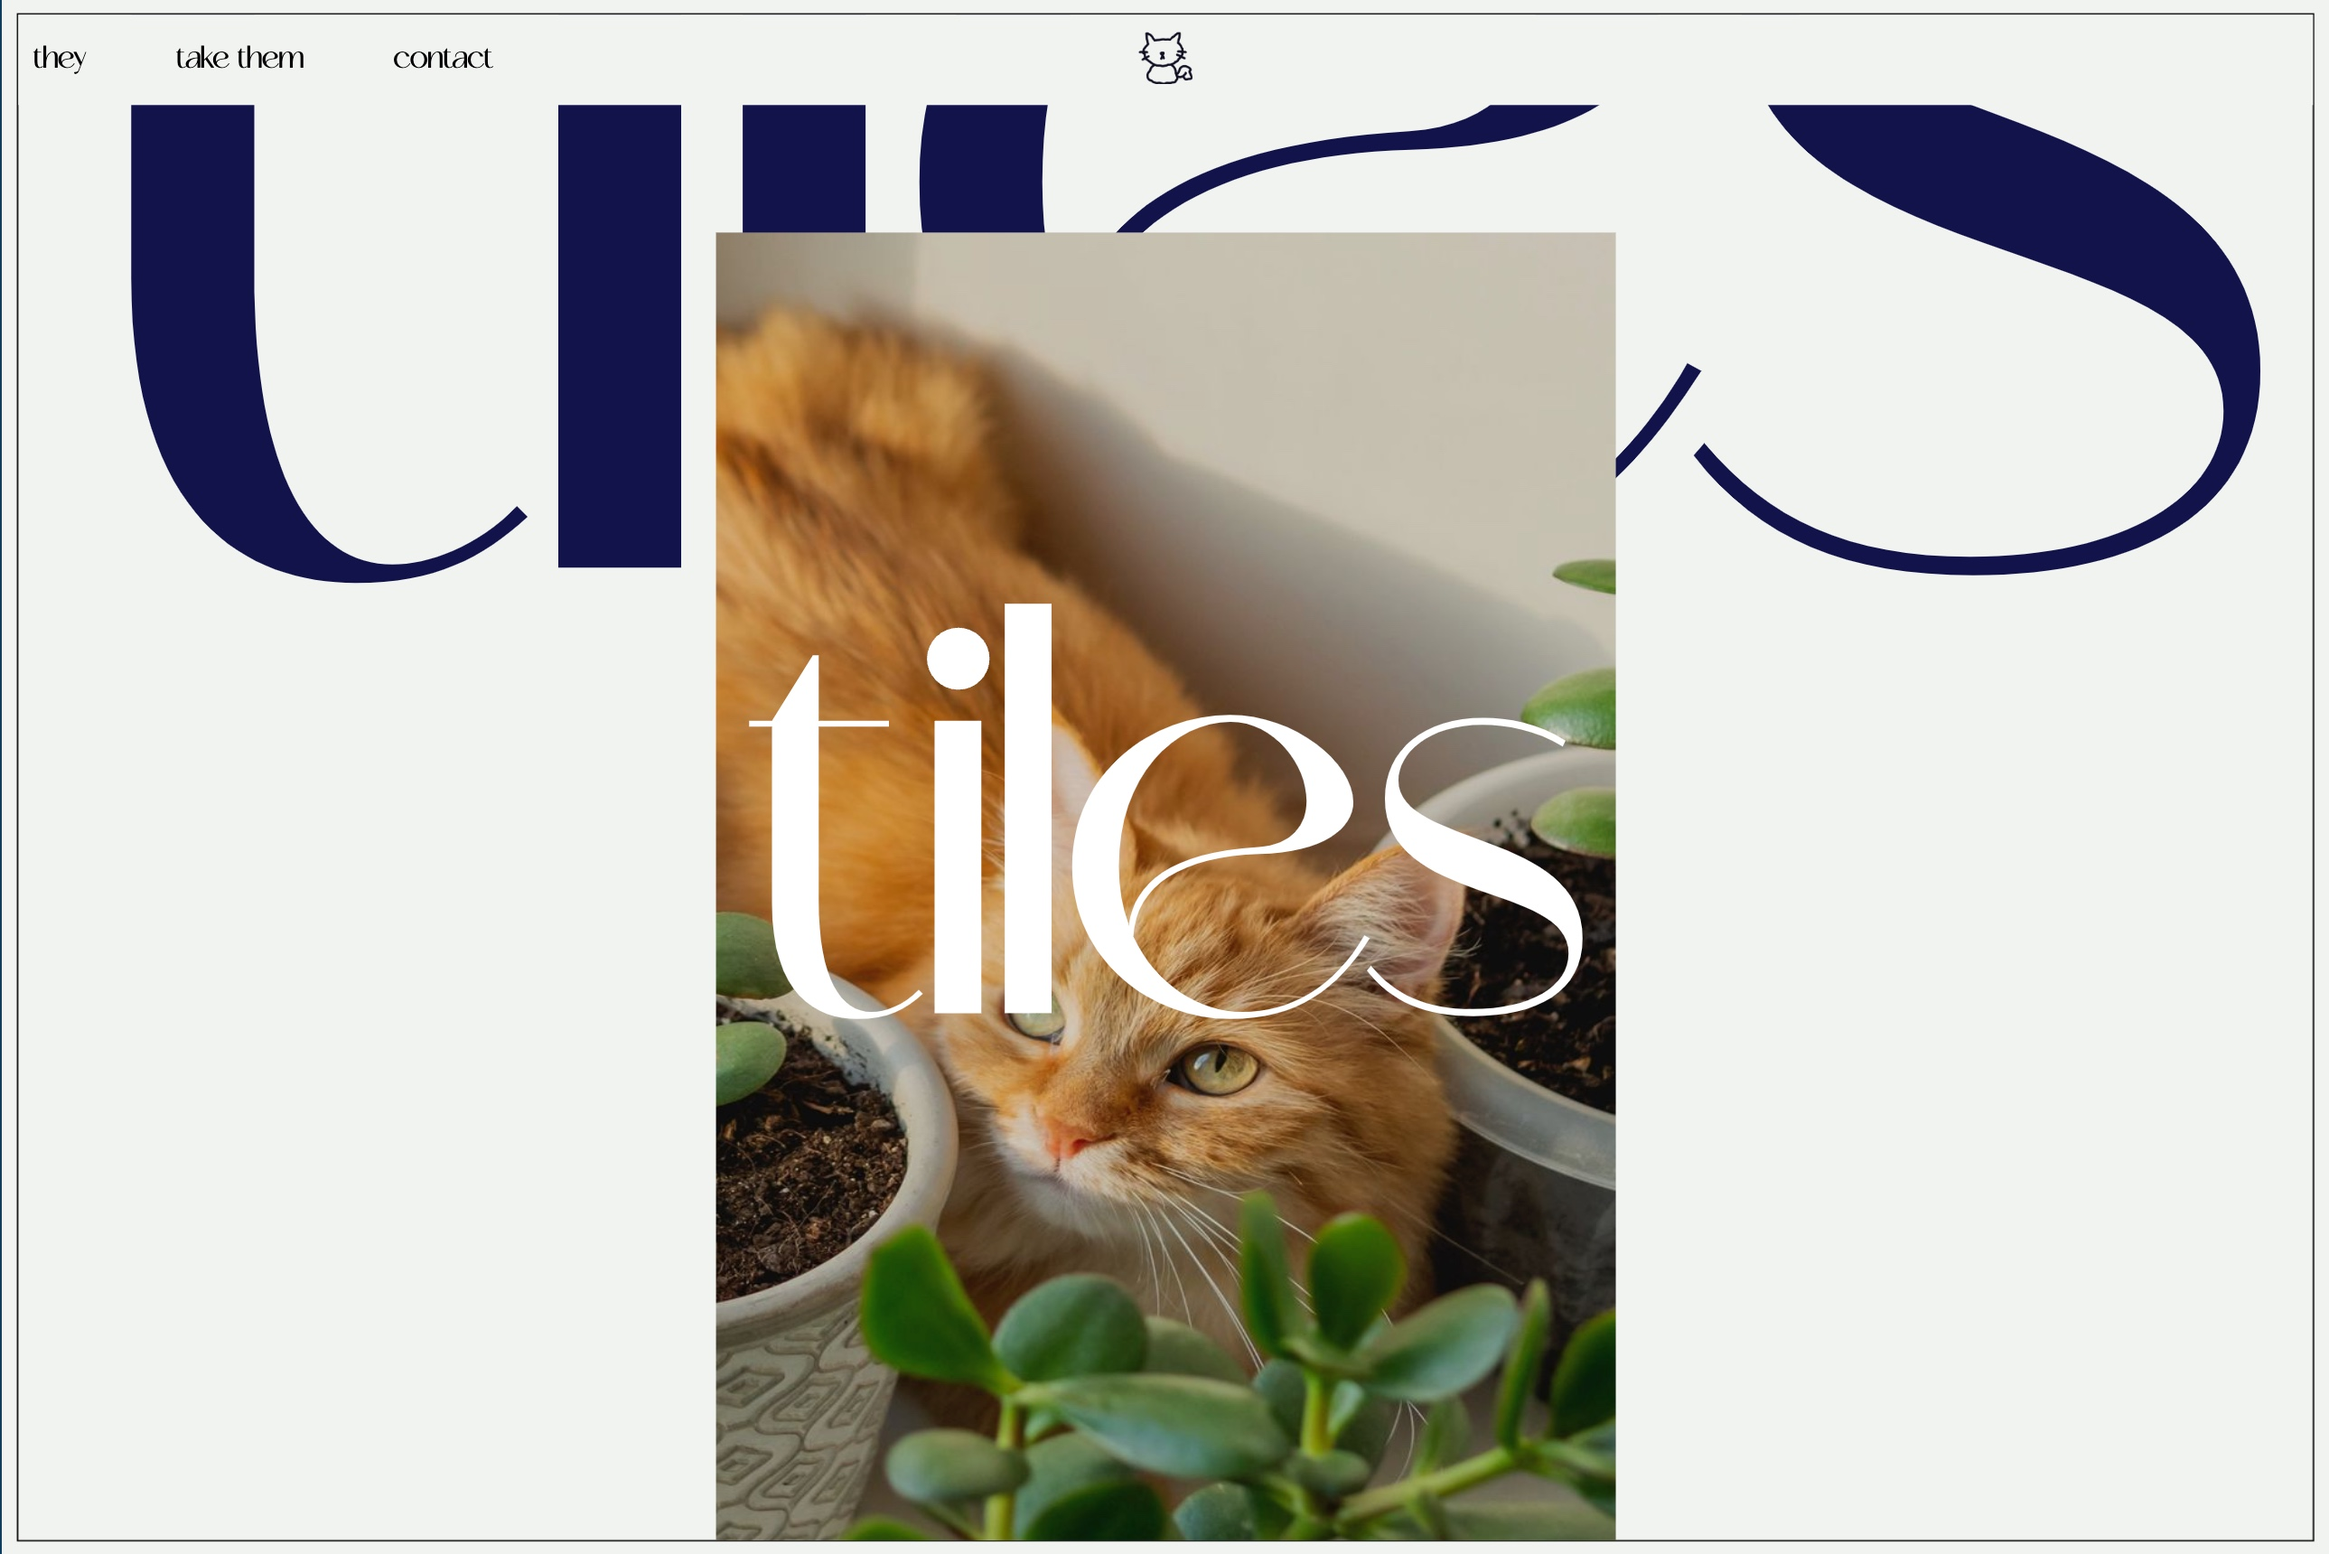
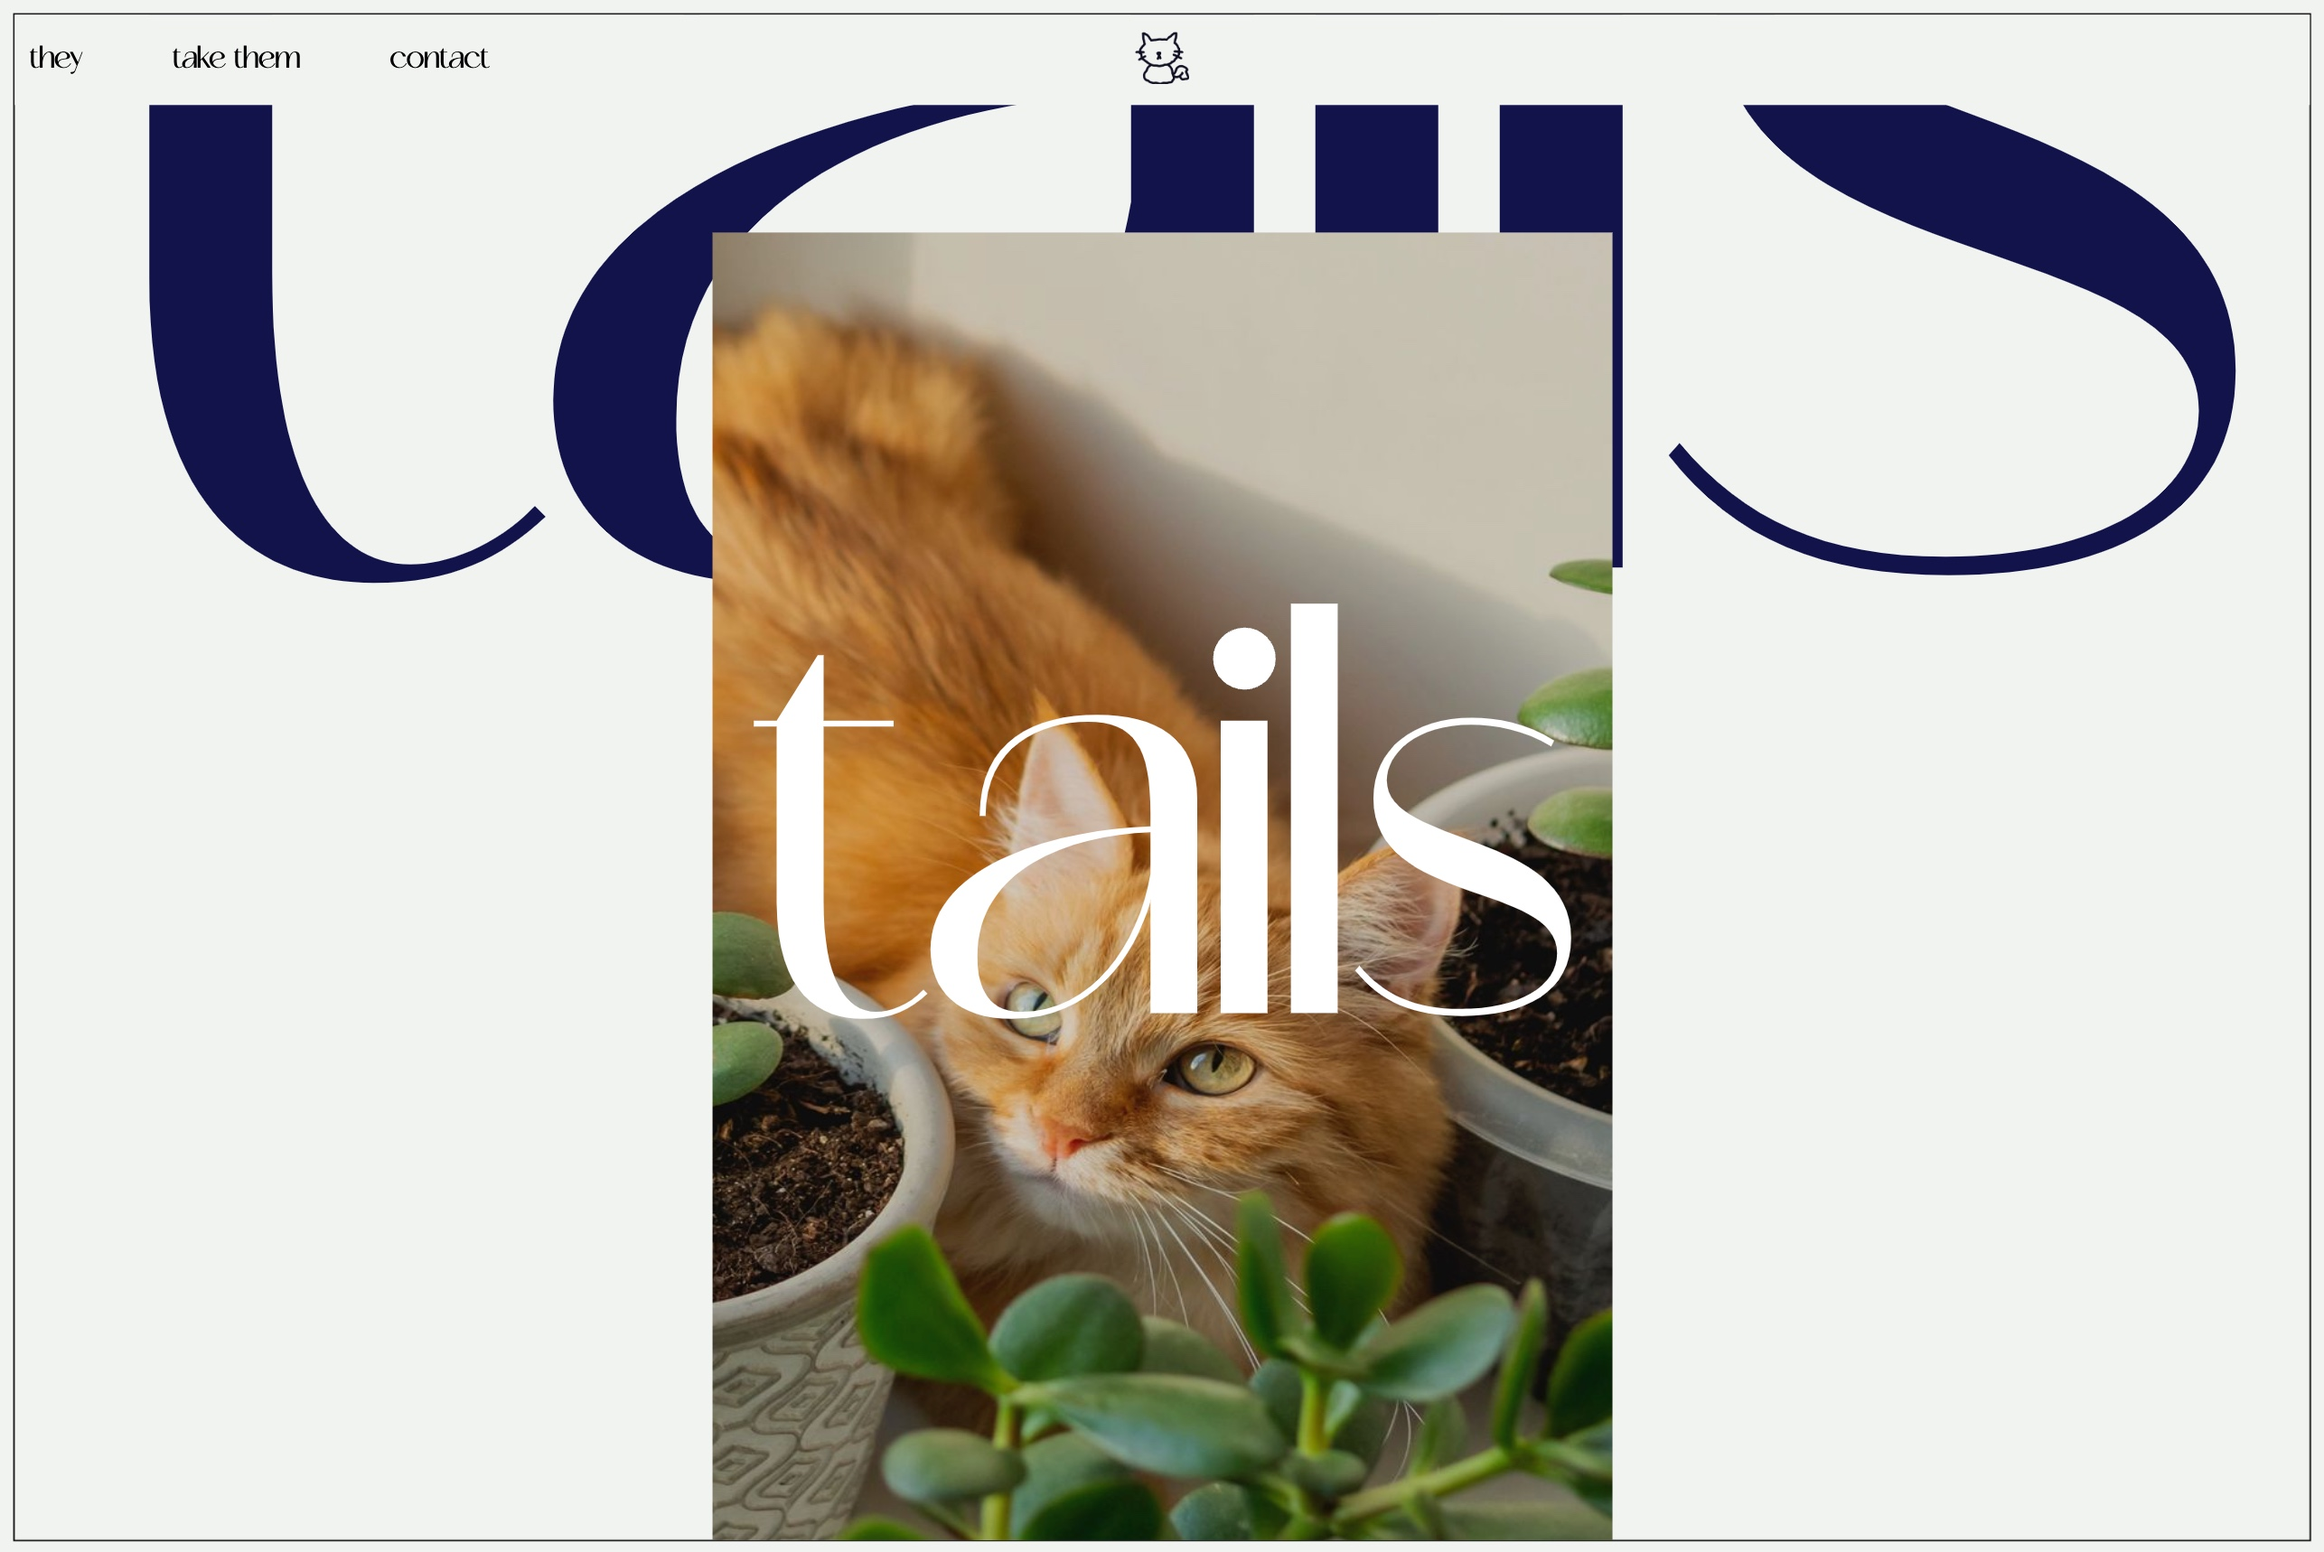
fix: change tiles with tails (i'm idiot)

diff --git a/tails/index.html b/tails/index.html
@@ -16,9 +16,9 @@
     <header class="my-nav"></header>
     <main>
       <header>
-        <h1 class="title-back">tiles</h1>
+        <h1 class="title-back">tails</h1>
         <div>
-          <h1 class="title-front">tiles</h1>
+          <h1 class="title-front">tails</h1>
           <figure><img src="./resources/images/cover-cat.jpeg" alt="cat beyond plants"></figure>
         </div>
       </header>

diff --git a/tails/html/contact.html b/tails/html/contact.html
@@ -15,10 +15,10 @@
     <header class="my-nav"></header>
     <main>
       <header>
-        <h1 class="title-back">tiles</h1>
+        <h1 class="title-back">tails</h1>
         <div>
           <h2>contact with us</h2>
-          <h2>info@tiles.com</h2>
+          <h2>info@tails.com</h2>
         </div>
       </header>
       <form id="contact-form" action="#" method="post">

diff --git a/README.md b/README.md
@@ -1,4 +1,4 @@
-# Tiles-web
+# Tails-web
 
 ![./assets/main.jpeg](./assets/main.jpeg)
 
